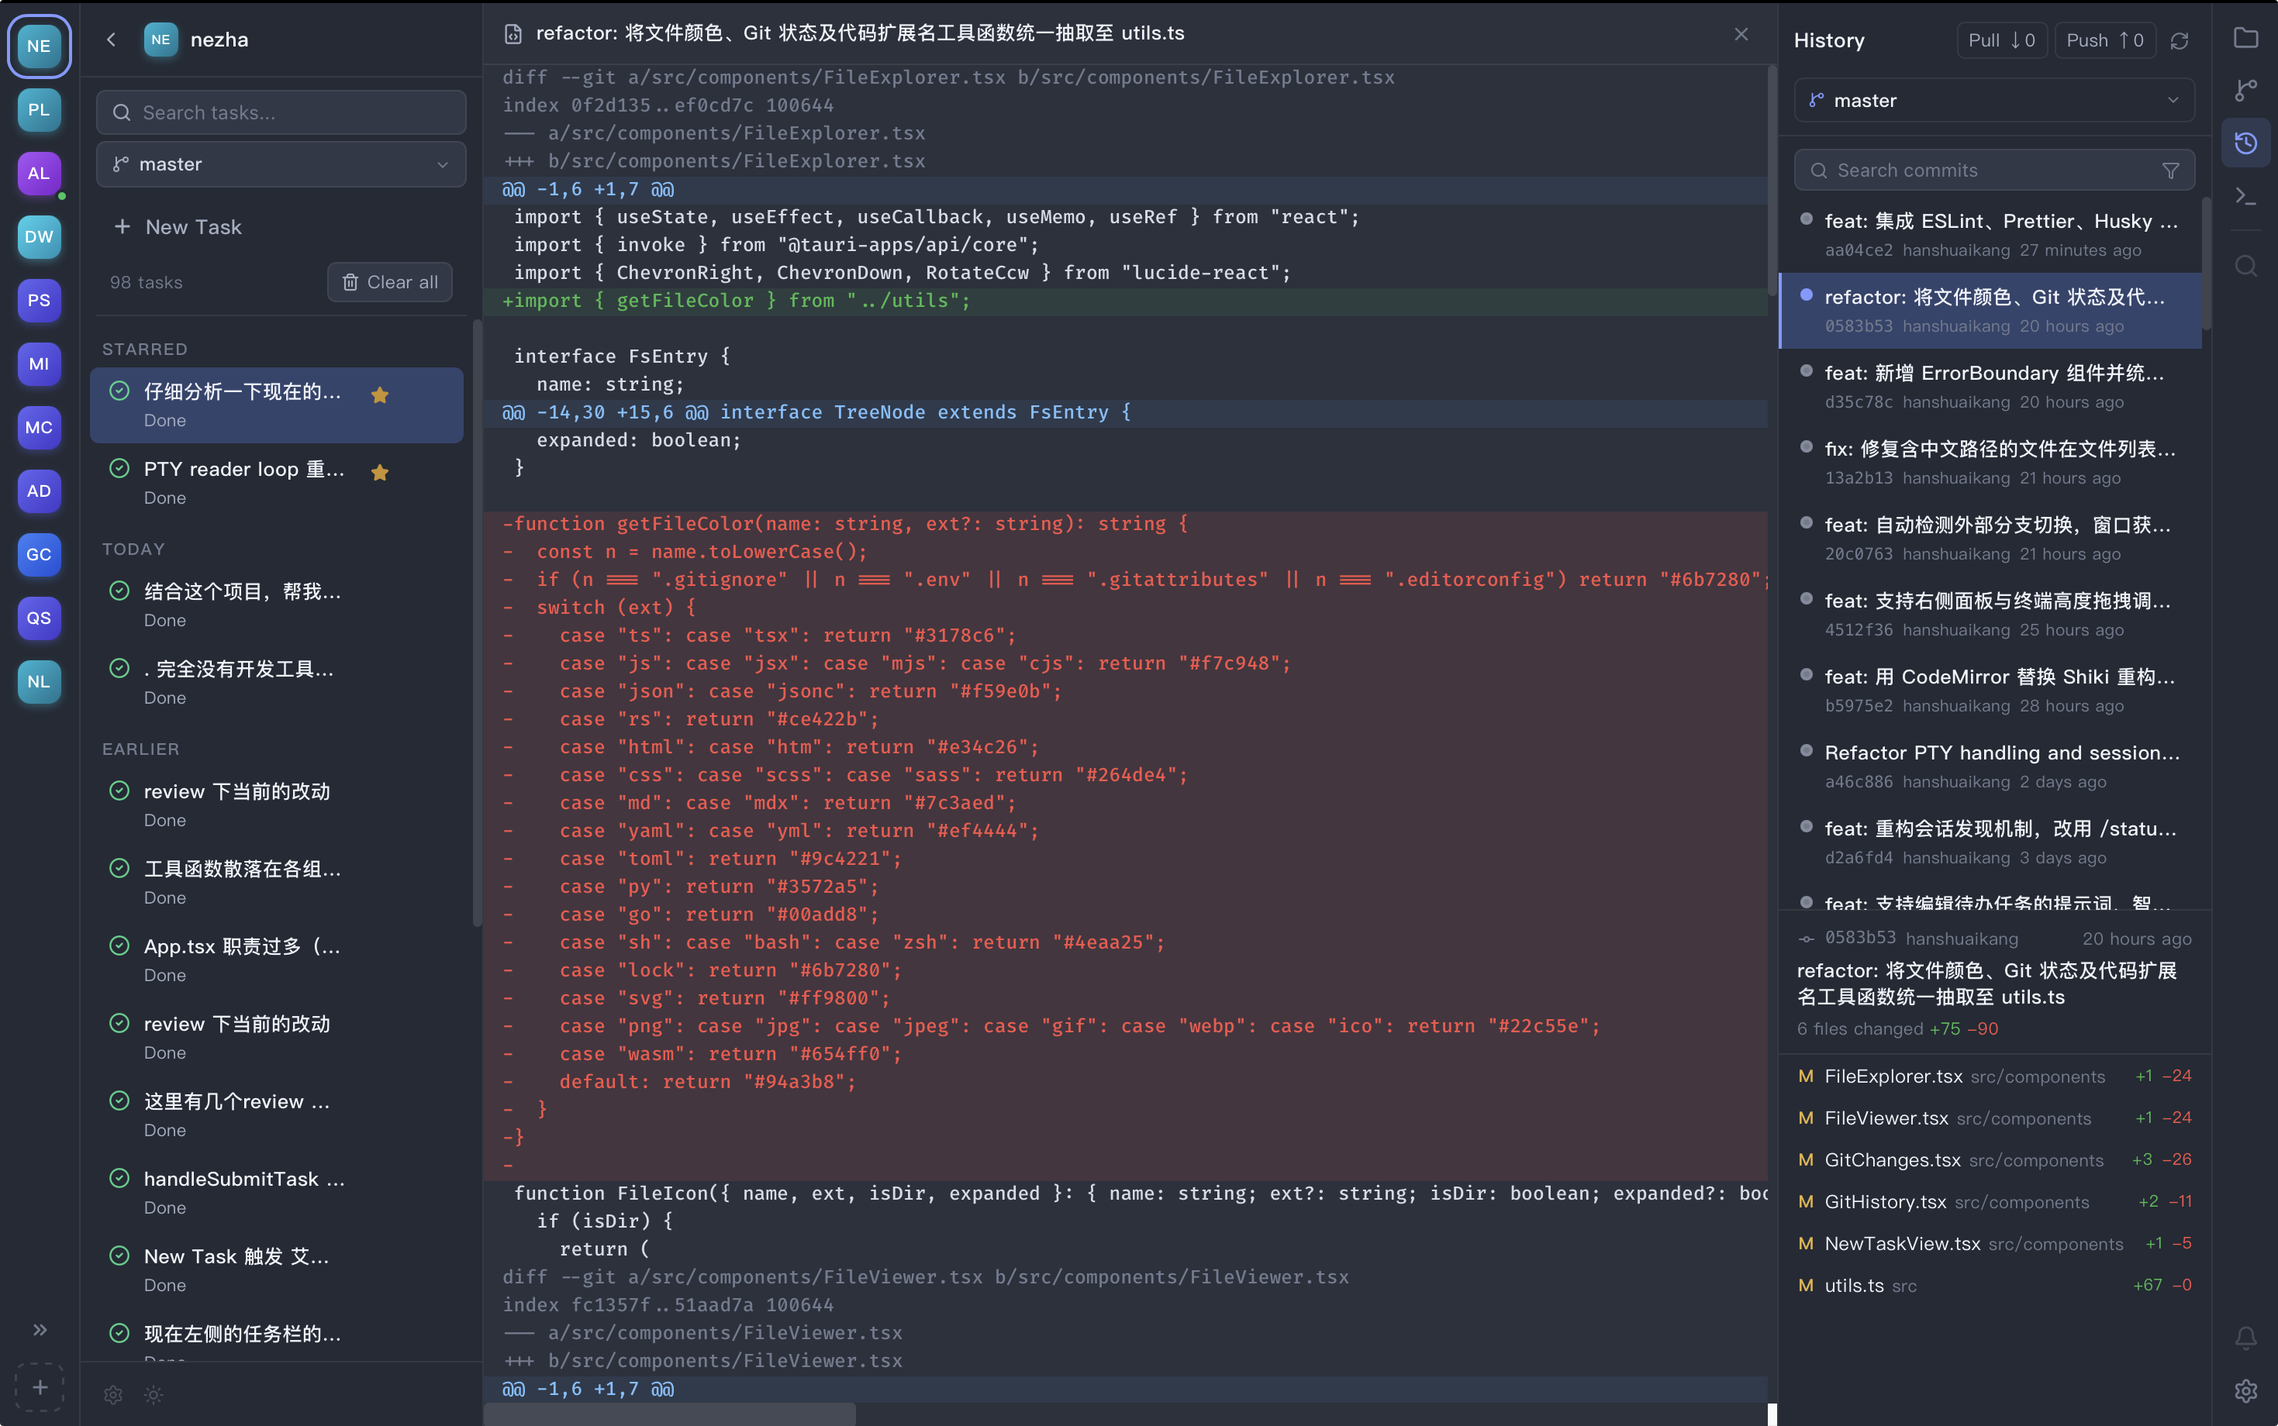
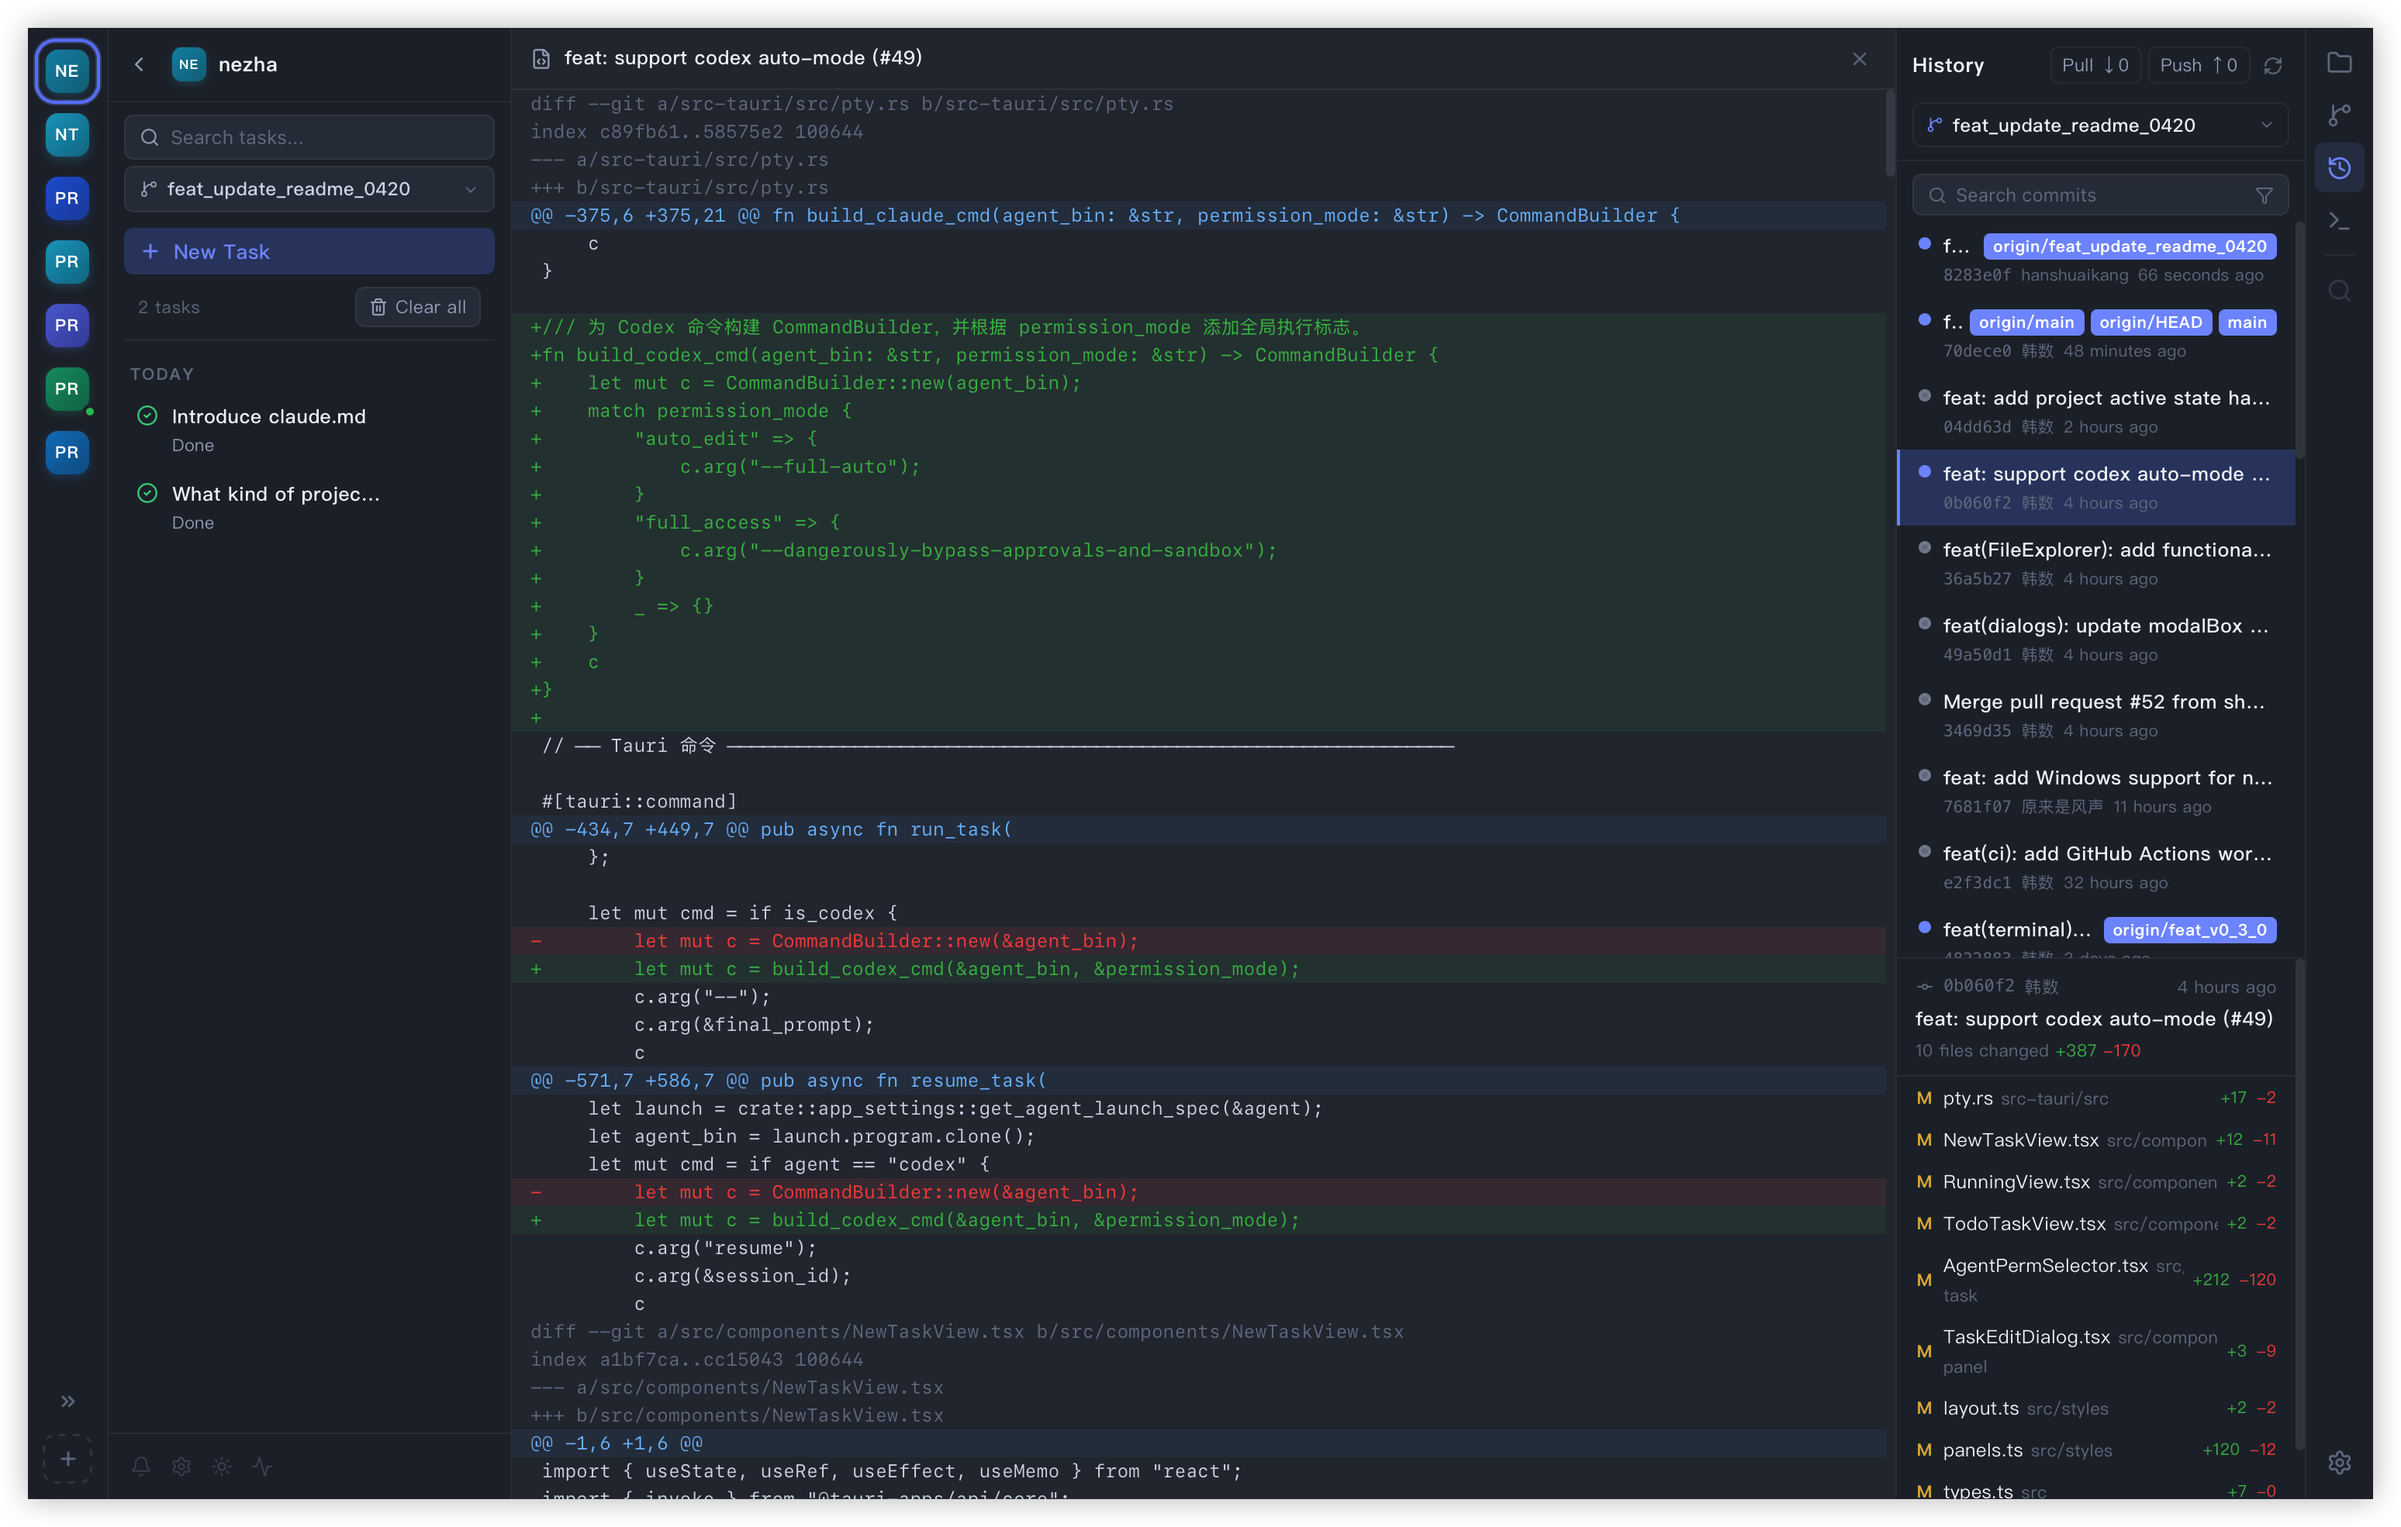
feat: update readme (#57)
* feat: update README and README_ZH with new badge layout and add media acknowledgments

* feat: update git.png image in documentation

diff --git a/README.md b/README.md
@@ -17,14 +17,22 @@
   <a href="https://github.com/hanshuaikang/nezha/stargazers"><img alt="Stars" src="https://img.shields.io/github/stars/hanshuaikang/nezha"></a>
 </p>
 
-<p align="center">
-  <a href="https://www.producthunt.com/products/nezha-2?embed=true&utm_source=badge-featured&utm_medium=badge&utm_campaign=badge-nezha" target="_blank" rel="noopener noreferrer">
-    <img alt="NeZha - Run multiple AI coding agents across projects | Product Hunt" width="200" height="48" style="width: 150px; height: 48px; vertical-align: middle;" src="https://api.producthunt.com/widgets/embed-image/v1/featured.svg?post_id=1120473&theme=light&t=1775898930608">
-  </a>
-  <a href="https://hellogithub.com/repository/hanshuaikang/nezha" target="_blank" rel="noopener noreferrer">
-    <img src="https://abroad.hellogithub.com/v1/widgets/recommend.svg?rid=4dd4bd67871b461fa8bd3641d803db05&claim_uid=uT2Sc8Xli4PUA76&theme=neutral" alt="Featured｜HelloGitHub" style="width: 155px; height: 48px; margin-left: 12px; vertical-align: middle;" width="150" height="48" />
-  </a>
-</p>
+<div align="center">
+  <table>
+    <tr>
+      <td align="center">
+        <a href="https://www.producthunt.com/products/nezha-2?embed=true&utm_source=badge-featured&utm_medium=badge&utm_campaign=badge-nezha" target="_blank" rel="noopener noreferrer">
+          <img alt="NeZha - Run multiple AI coding agents across projects | Product Hunt" src="https://api.producthunt.com/widgets/embed-image/v1/featured.svg?post_id=1120473&theme=light&t=1775898930608" width="150" height="48" />
+        </a>
+      </td>
+      <td align="center">
+        <a href="https://hellogithub.com/repository/hanshuaikang/nezha" target="_blank" rel="noopener noreferrer">
+          <img src="https://abroad.hellogithub.com/v1/widgets/recommend.svg?rid=4dd4bd67871b461fa8bd3641d803db05&claim_uid=uT2Sc8Xli4PUA76&theme=neutral" alt="Featured｜HelloGitHub" width="155" height="48" />
+        </a>
+      </td>
+    </tr>
+  </table>
+</div>
 
 <p align="center">
   <img src="docs/images/index.png" alt="Nezha Product Showcase" width="80%" />
@@ -115,16 +123,15 @@ xattr -rd com.apple.quarantine /Applications/nezha.app
 ### 🎨 Carefully Crafted UI Style with Light and Dark Modes
 
 <p align="center">
-  <img src="docs/images/theme-dark.png" alt="Dark Theme" width="48%" />
-  <img src="docs/images/theme-light.png" alt="Light Theme" width="48%" />
+  <img src="docs/images/dark.png" alt="Dark Theme" width="48%" />
+  <img src="docs/images/light.png" alt="Light Theme" width="48%" />
 </p>
 
 ## 🗺 Roadmap
 
 | <small>Module</small> | <small>Planned Feature</small> | <small>Status</small> |
 | --- | --- | :---: |
-| <small>**Cross-Platform**</small> | <small>Windows Support</small> | <small>⏳ Planned</small> |
-| | <small>Linux Support</small> | <small>⏳ Planned</small> |
+| <small>**Cross-Platform**</small> | <small>Linux Support</small> | <small>⏳ Planned</small> |
 | <small>**Agent Config**</small> | <small>Visual Configuration Management</small> | <small>⏳ Planned</small> |
 | | <small>Multi-Account Management</small> | <small>⏳ Planned</small> |
 | <small>**Workflow**</small> | <small>New Code Review View</small> | <small>⏳ Planned</small> |
@@ -137,6 +144,13 @@ The creation of Nezha was made possible by the following outstanding open-source
 - [Tauri](https://github.com/tauri-apps/tauri) - Build smaller, faster, and more secure desktop applications with a web frontend.
 - [React](https://github.com/facebook/react) - The library for web and native user interfaces.
 - [xterm.js](https://github.com/xtermjs/xterm.js) - A terminal for the web.
+
+Thanks to the following media creators for covering and sharing this project. The order is in no particular order, and you may want to follow them if you're interested.
+
+| Platform | Account |
+| --- | --- |
+| Twitter | [@aigclink](https://x.com/aigclink), [@QingQ77](https://x.com/QingQ77) |
+| WeChat Official Account | 码问 |
 
 ### 👬 Friend Links
 <a href="https://linux.do">Linux.do</a>

diff --git a/README_ZH.md b/README_ZH.md
@@ -17,14 +17,22 @@
   <a href="https://github.com/hanshuaikang/nezha/stargazers"><img alt="Stars" src="https://img.shields.io/github/stars/hanshuaikang/nezha"></a>
 </p>
 
-<p align="center">
-  <a href="https://www.producthunt.com/products/nezha-2?embed=true&utm_source=badge-featured&utm_medium=badge&utm_campaign=badge-nezha" target="_blank" rel="noopener noreferrer">
-    <img alt="NeZha - Run multiple AI coding agents across projects | Product Hunt" width="200" height="48" style="width: 150px; height: 48px; vertical-align: middle;" src="https://api.producthunt.com/widgets/embed-image/v1/featured.svg?post_id=1120473&theme=light&t=1775898930608">
-  </a>
-  <a href="https://hellogithub.com/repository/hanshuaikang/nezha" target="_blank" rel="noopener noreferrer">
-    <img src="https://abroad.hellogithub.com/v1/widgets/recommend.svg?rid=4dd4bd67871b461fa8bd3641d803db05&claim_uid=uT2Sc8Xli4PUA76&theme=neutral" alt="Featured｜HelloGitHub" style="width: 155px; height: 48px; margin-left: 12px; vertical-align: middle;" width="150" height="48" />
-  </a>
-</p>
+<div align="center">
+  <table>
+    <tr>
+      <td align="center">
+        <a href="https://www.producthunt.com/products/nezha-2?embed=true&utm_source=badge-featured&utm_medium=badge&utm_campaign=badge-nezha" target="_blank" rel="noopener noreferrer">
+          <img alt="NeZha - Run multiple AI coding agents across projects | Product Hunt" src="https://api.producthunt.com/widgets/embed-image/v1/featured.svg?post_id=1120473&theme=light&t=1775898930608" width="150" height="48" />
+        </a>
+      </td>
+      <td align="center">
+        <a href="https://hellogithub.com/repository/hanshuaikang/nezha" target="_blank" rel="noopener noreferrer">
+          <img src="https://abroad.hellogithub.com/v1/widgets/recommend.svg?rid=4dd4bd67871b461fa8bd3641d803db05&claim_uid=uT2Sc8Xli4PUA76&theme=neutral" alt="Featured｜HelloGitHub" width="155" height="48" />
+        </a>
+      </td>
+    </tr>
+  </table>
+</div>
 
 <p align="center">
   <img src="docs/images/index.png" alt="Nezha 产品图" width="80%" />
@@ -111,19 +119,20 @@ xattr -rd com.apple.quarantine /Applications/nezha.app
 ### 🎨 精心打磨的 UI 风格，支持白天和黑夜模式
 
 <p align="center">
-  <img src="docs/images/theme-dark.png" alt="深色主题" width="48%" />
-  <img src="docs/images/theme-light.png" alt="浅色主题" width="48%" />
+  <img src="docs/images/dark.png" alt="Dark Theme" width="48%" />
+  <img src="docs/images/light.png" alt="Light Theme" width="48%" />
 </p>
 
  ## 后续计划
 | <small>模块</small> | <small>计划功能</small> | <small>状态</small> |
 | --- | --- | :---: |
-| <small>**跨平台支持**</small> | <small>支持 Windows 平台</small> | <small>⏳ 规划中</small> |
-| | <small>支持 Linux 平台</small> | <small>⏳ 规划中</small> |
+| <small>**跨平台支持**</small> | <small>支持 Linux 平台</small> | <small>⏳ 规划中</small> |
 | <small>**Agent 配置**</small> | <small>可视化配置管理</small> | <small>⏳ 规划中</small> |
 | | <small>多账号管理</small> | <small>⏳ 规划中</small> |
 | <small>**开发流程**</small> | <small>新增 Code Review 视图</small> | <small>⏳ 规划中</small> |
 | | <small>新增 Git Worktree 支持</small> | <small>⏳ 规划中</small> |
+
+
 
 
 
@@ -134,6 +143,14 @@ Nezha 的诞生离不开以下优秀的开源项目，向它们致敬：
 - [Tauri](https://github.com/tauri-apps/tauri) - 构建更小、更快、更安全的桌面应用
 - [React](https://github.com/facebook/react) - 构建用户界面的 JavaScript 库
 - [xterm.js](https://github.com/xtermjs/xterm.js) - 强大的 Web 终端组件
+
+感谢以下自媒体对本项目的关注和转发(以下排名不分先后), 大家感兴趣的话可以关注下他们 ～
+
+| 平台 | 账号 |
+| --- | --- |
+| 推特 | [@aigclink](https://x.com/aigclink)、[@QingQ77](https://x.com/QingQ77) |
+| 公众号 | 码问 |
+
 
 ### 👬 友情链接
 <a href="https://linux.do">Linux.do</a>
